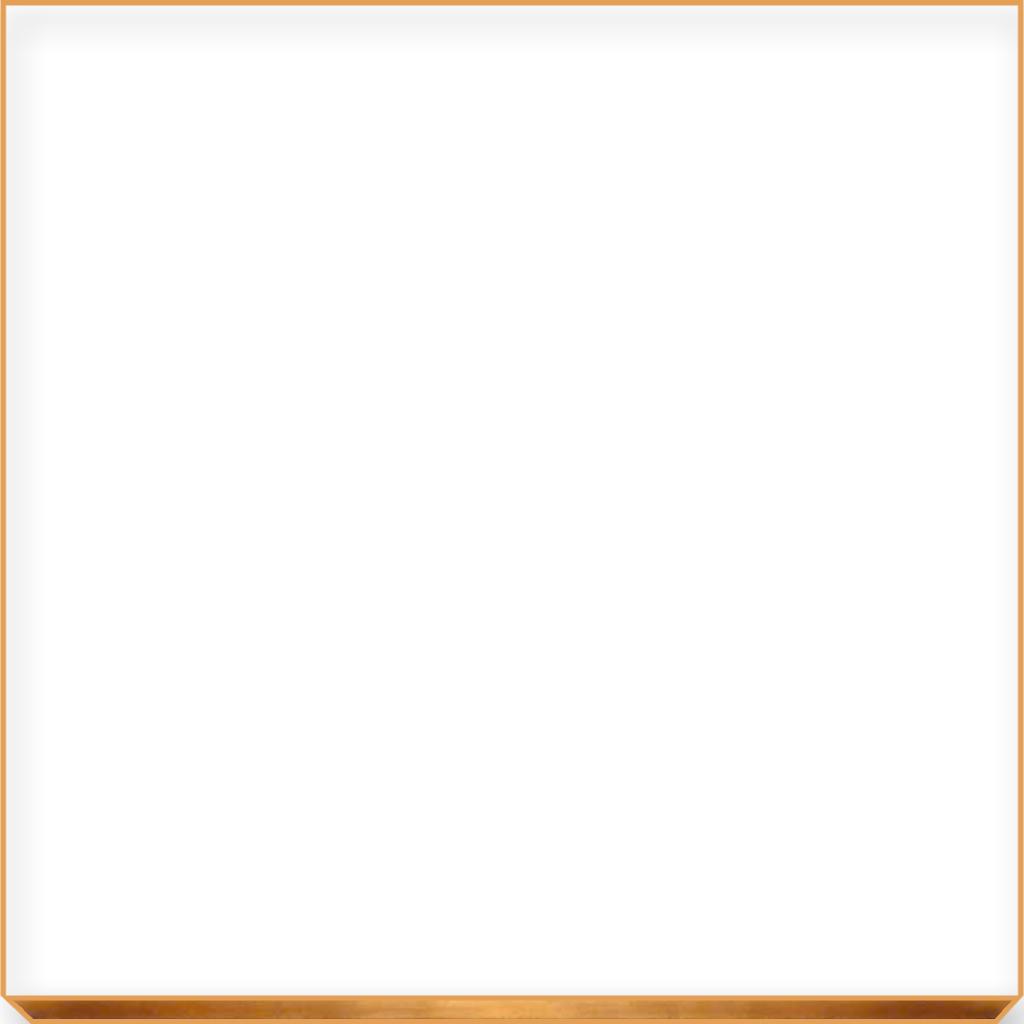
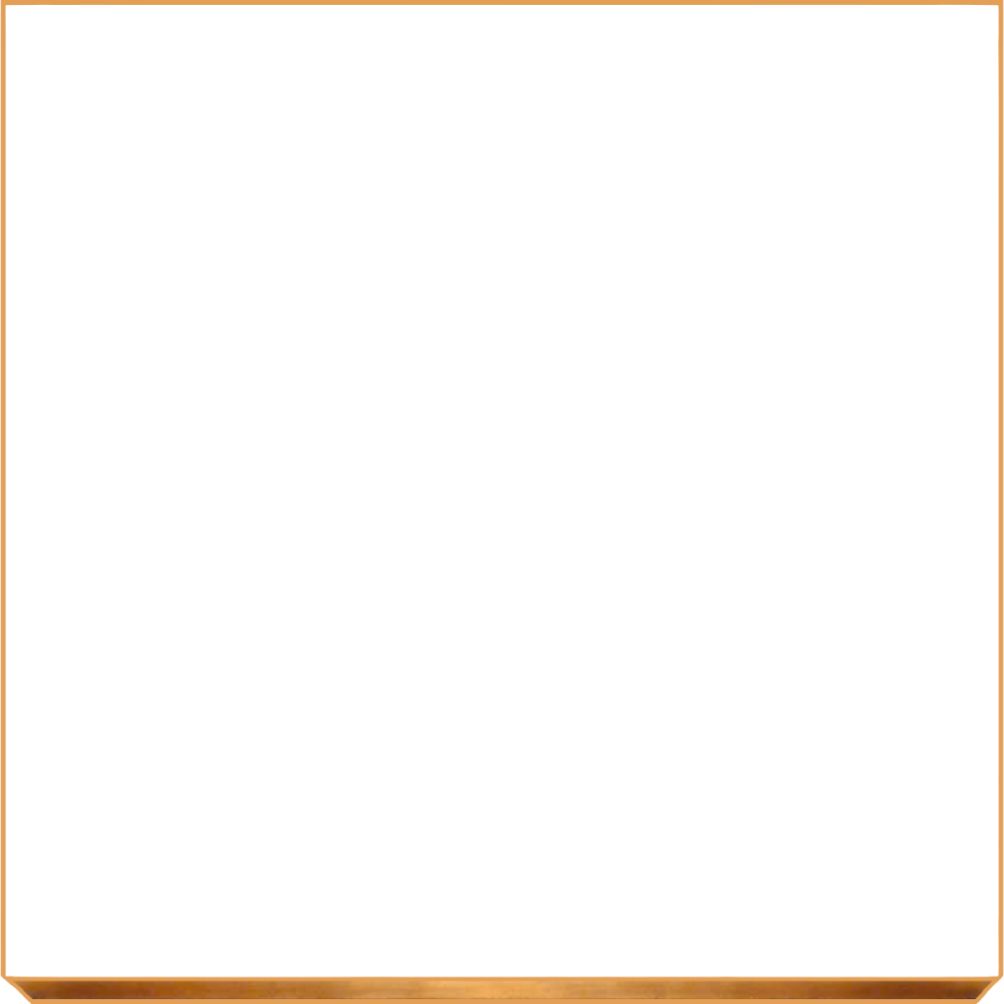
feat: Add frame overlay for chess board with dynamic scaling

Changed region(s): [[0.9572, 0.0, 1.0, 1.0], [0.0, 0.9572, 0.0309, 1.0]]

diff --git a/lib/views/components/chess_view/chess_board_widget.dart b/lib/views/components/chess_view/chess_board_widget.dart
@@ -1,5 +1,6 @@
 import 'package:flame/game.dart';
 import 'package:flutter/cupertino.dart';
+import 'package:flutter/material.dart';
 
 import '../../../logic/chess_game.dart';
 import '../../../model/app_model.dart';
@@ -26,7 +27,28 @@ class ChessBoardWidget extends StatelessWidget {
         ? 0.0
         : (resolvedBoardSize * 0.024).clamp(6.0, 10.0).toDouble();
 
+    // frame_board.png is 1004×1004 with an asymmetric transparent window:
+    //   top ≈ 5px, left ≈ 7px, right ≈ 6px, bottom decoration ≈ 27px
+    // Transparent content area: 991×972px (not square).
+    // Use separate X/Y scales so all 4 borders are visible and flush with the board.
+    const double frameImgSize = 1004;
+    const double frameBorderTop = 5;
+    const double frameBorderLeft = 7;
+    const double frameBorderRight = 6;
+    const double frameBorderBottom = 27;
+    const double frameContentW =
+        frameImgSize - frameBorderLeft - frameBorderRight; // 991
+    const double frameContentH =
+        frameImgSize - frameBorderTop - frameBorderBottom; // 972
+    final double scaleX = resolvedBoardSize / frameContentW;
+    final double scaleY = resolvedBoardSize / frameContentH;
+    final double frameDrawW = frameImgSize * scaleX;
+    final double frameDrawH = frameImgSize * scaleY;
+    final double frameLeft = -(frameBorderLeft * scaleX);
+    final double frameTop = -(frameBorderTop * scaleY);
+
     return Stack(
+      clipBehavior: Clip.none,
       children: [
         SizedBox(
           width: resolvedBoardSize,
@@ -66,6 +88,19 @@ class ChessBoardWidget extends StatelessWidget {
             ),
           ),
         ),
+        if (!isVideoTheme)
+          Positioned(
+            left: frameLeft,
+            top: frameTop,
+            width: frameDrawW,
+            height: frameDrawH,
+            child: IgnorePointer(
+              child: Image.asset(
+                'assets/images/boards/frame_board.png',
+                fit: BoxFit.fill,
+              ),
+            ),
+          ),
         if (appModel.showNotation)
           SizedBox(
             width: resolvedBoardSize,

diff --git a/lib/logic/chess_game.dart b/lib/logic/chess_game.dart
@@ -281,20 +281,6 @@ class ChessGame extends FlameGame with TapCallbacks {
         Paint(),
       );
 
-      // Temporarily disabled: board frame overlay
-      // if (_boardFrameTexture != null) {
-      //   canvas.drawImageRect(
-      //     _boardFrameTexture!,
-      //     Rect.fromLTWH(
-      //       0,
-      //       0,
-      //       _boardFrameTexture!.width.toDouble(),
-      //       _boardFrameTexture!.height.toDouble(),
-      //     ),
-      //     Rect.fromLTWH(0, 0, boardSize, boardSize),
-      //     Paint(),
-      //   );
-      // }
       return;
     }
 